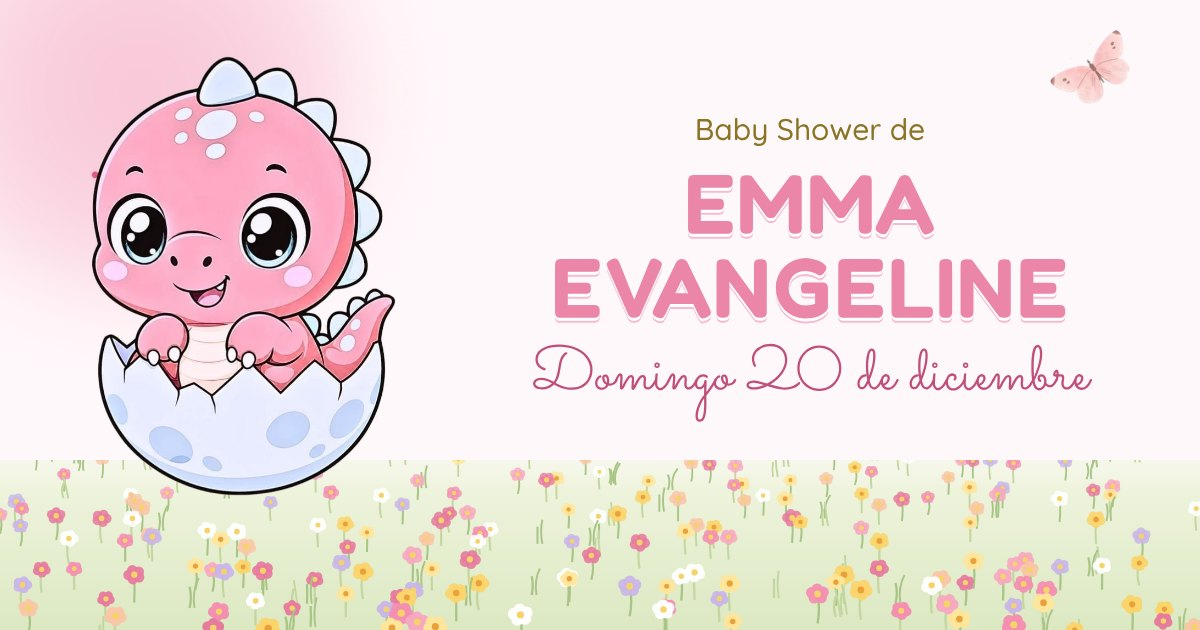
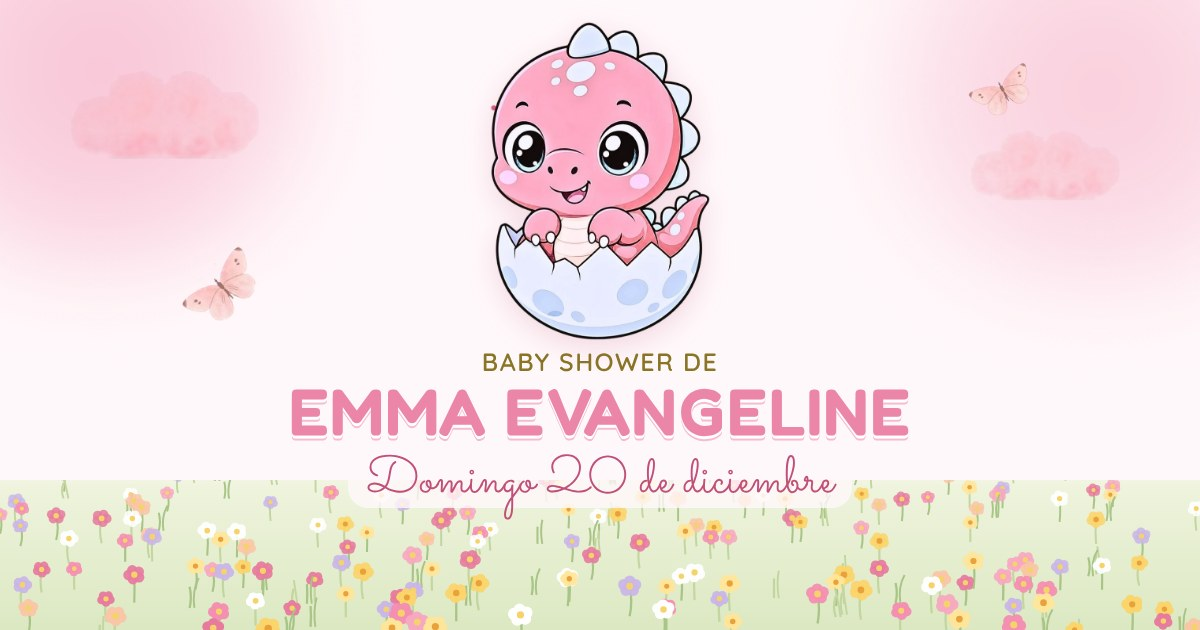
Portada centrada para WhatsApp

Changed region(s): [[0.0308, 0.0302, 0.925, 0.8143], [0.8017, 0.0, 1.0, 0.3619]]

diff --git a/emma-evangeline/index.html b/emma-evangeline/index.html
@@ -9,7 +9,7 @@
 <meta property="og:url" content="https://apartalafecha.github.io/emma-evangeline/">
 <meta property="og:title" content="Baby Shower de Emma Evangeline">
 <meta property="og:description" content="Domingo 20 de diciembre · 1:00 p.m. · Toca para abrir tu invitación 💌">
-<meta property="og:image" content="https://apartalafecha.github.io/emma-evangeline/portada.jpg">
+<meta property="og:image" content="https://apartalafecha.github.io/emma-evangeline/portada.jpg?v=2">
 <meta property="og:image:width" content="1200">
 <meta property="og:image:height" content="630">
 <meta name="twitter:card" content="summary_large_image">
